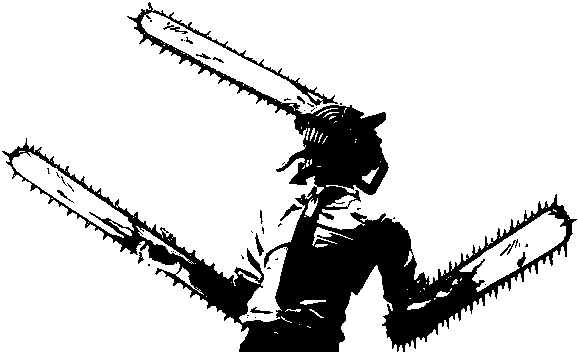
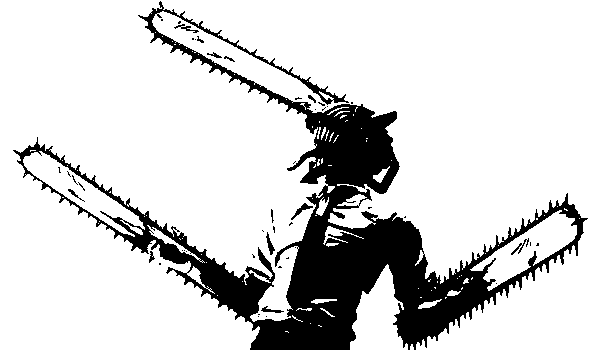
style: :lipstick: 로그인 레이아웃

diff --git a/frontend/src/common/LoginLayout/index.tsx b/frontend/src/common/LoginLayout/index.tsx
@@ -1,14 +1,27 @@
+import { GithubIcon } from 'assets';
 import { Outlet } from 'react-router-dom';
+import { githubLinkStyle, loginFooterStyle, loginHeaderStyle, loginMainWrapperStyle } from './LoginLayout.styles';
 
 export const LoginLayout = () => {
+  const isSamurai = Math.random() < 0.2;
+
   return (
     <>
-      <header>
-        <span>트센</span>
+      <header className={loginHeaderStyle}>
+        <img
+          src={isSamurai ? 'samurai.png' : 'csm.png'}
+          alt={isSamurai ? 'samurai-sword' : 'chainsaw-man'}
+          width={600}
+          height={350}
+        />
       </header>
-      <Outlet />
-      <footer>
-        <span>ft_transcendence</span>
+      <div className={loginMainWrapperStyle}>
+        <Outlet />
+      </div>
+      <footer className={loginFooterStyle}>
+        <a href="https://github.com/42Blank/ft_transcendence" className={githubLinkStyle}>
+          <GithubIcon />
+        </a>
       </footer>
     </>
   );

diff --git a/frontend/src/common/LoginLayout/LoginLayout.styles.ts b/frontend/src/common/LoginLayout/LoginLayout.styles.ts
@@ -1,0 +1,37 @@
+import { css } from '@emotion/css';
+
+export const loginHeaderStyle = css({
+  width: '100vw',
+  height: 350,
+  display: 'flex',
+  justifyContent: 'center',
+  marginTop: 20,
+});
+
+export const loginMainWrapperStyle = css({
+  width: '100vw',
+  display: 'flex',
+  justifyContent: 'center',
+});
+
+export const loginFooterStyle = css({
+  width: '100vw',
+  display: 'flex',
+  position: 'fixed',
+  left: 0,
+  bottom: 0,
+  padding: '20px 10px',
+  flexDirection: 'row',
+  justifyContent: 'center',
+});
+
+export const githubLinkStyle = css({
+  display: 'inline-block',
+  width: 40,
+  height: 40,
+
+  svg: {
+    width: 40,
+    height: 40,
+  },
+});
